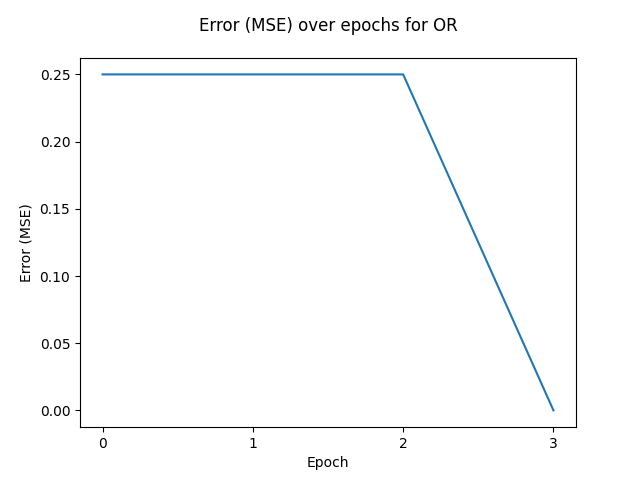
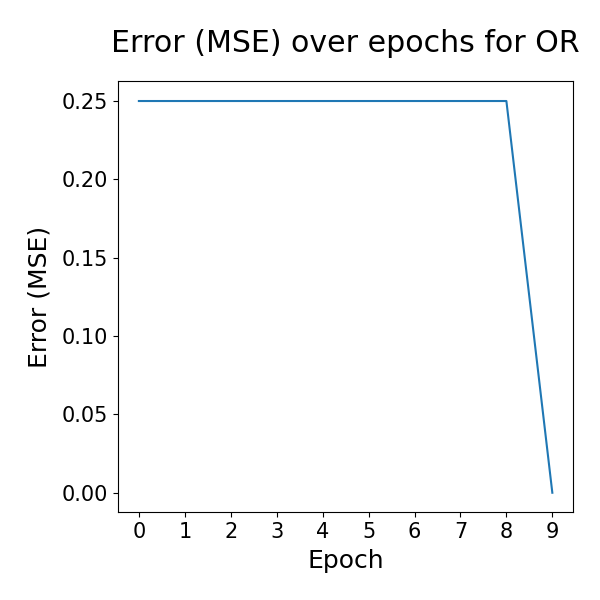
Update perceptron plots

diff --git a/src/perceptron.py b/src/perceptron.py
@@ -36,7 +36,7 @@ class Perceptron:
         self.bias = np.random.random()
         self.weights = np.append(np.random.random(len(data[0])), self.bias)
 
-    def train(self, plot_learning_graph=False):
+    def train(self, plot_learning_graph=False, save_file=False):
         """
         Method to train perceptron by learning weights and bias using the
         perceptron algorithm
@@ -67,7 +67,7 @@ class Perceptron:
             print(f"Could not converge in {self.max_epochs} epochs.")
 
         if plot_learning_graph:
-            self._plot_learning_graph(costs, epoch)
+            self._plot_learning_graph(costs, epoch, save_file)
 
     def get_prediction(self, point):
         """
@@ -131,9 +131,16 @@ class Perceptron:
         :return: None
         """
         assert len(self.data[0]) - 1 == 2
+        font = {'family': 'normal',
+                'weight': 'normal',
+                'size': 18}
+        plt.rc('font', **font)
+        plt.rc('lines', markersize=6)
+        plt.rc('xtick', labelsize=15)
+        plt.rc('ytick', labelsize=15)
+        plt.rc("figure", figsize=(6, 6))
 
         ax = plt.subplot()  # type: axes.Axes
-
         colors = ['tab:blue', 'tab:orange']
 
         x_values = self.data[:, 0]
@@ -177,9 +184,9 @@ class Perceptron:
         ax.scatter(x_values, y_values, c=[colors[i] for i in self.labels])
         ax.xaxis.set_major_locator(MaxNLocator(integer=True))
 
-        ax.set_title("Decision boundary for OR", y=1.05)
+        ax.set_title("Decision boundary for XOR", y=1.05)
         if save_file:
-            plt.savefig("../doc/plots/OR_decision_boundary")
+            plt.savefig("../doc/plots/XOR_decision_boundary")
         plt.show()
 
     def _plot_learning_graph(self, costs: [float], epochs: int, save_file=False):
@@ -190,13 +197,23 @@ class Perceptron:
         :param epochs: The total amount of epochs the model run for
         :return: None
         """
+        font = {'family': 'normal',
+                'weight': 'normal',
+                'size': 18}
+        plt.rc('font', **font)
+        plt.rc('lines', markersize=6)
+        plt.rc('xtick', labelsize=15)
+        plt.rc('ytick', labelsize=15)
+        plt.rc("figure", figsize=(6, 6))
+
         x = list(range(epochs))
         ax = plt.subplot()  # type:axes.Axes
-        ax.set_ylabel("Error (MSE)")
-        ax.set_xlabel("Epoch")
+        ax.set_ylabel("Error (MSE)", labelpad=8)
+        ax.set_xlabel("Epoch", labelpad=5)
         ax.xaxis.set_major_locator(MaxNLocator(integer=True))
         ax.plot(x, costs)
-        ax.set_title("Error (MSE) over epochs for OR", y=1.05)
+        ax.set_title("Error (MSE) over epochs for XOR", y=1.05)
+        plt.tight_layout()
         if save_file:
-            plt.savefig("../doc/plots/OR_error_over_epochs")
+            plt.savefig("../doc/plots/XOR_error_over_epochs")
         plt.show()

diff --git a/src/main.py b/src/main.py
@@ -12,10 +12,10 @@ def main():
     Main method to run.
     """
     # data = [[0, 0], [0, 1], [1, 0], [1, 1]]
-    # labels = [0, 1, 1, 1]
+    # labels = [0, 1, 1, 0]
     # perceptron = Perceptron(data, labels)
-    # perceptron.train()
-    # perceptron.plot_decision_boundary()
+    # perceptron.train(plot_learning_graph=True, save_file=False)
+    # perceptron.plot_decision_boundary(save_file=False)
 
     features, targets, unknown = load_data()
     data = list(zip(features, targets))
